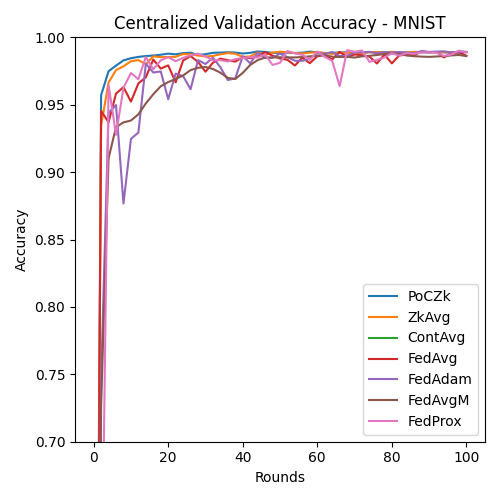
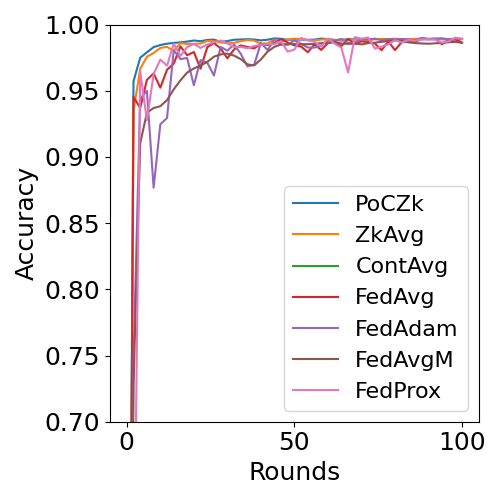
more visible plots

diff --git a/clientcontributionfl/utils/train_utils.py b/clientcontributionfl/utils/train_utils.py
@@ -96,24 +96,26 @@ def plot_comparison_from_files(save_plot_path: Path, config: dict[str, any], str
         ax1.plot(rounds_acc, values_acc, label=strategy)
         #ax2.plot(rounds_loss, values_loss, label=strategy)
 
-    ax1.set_title(f"Centralized Validation Accuracy - {dataset}")
+    #ax1.set_title(f"Centralized Validation Accuracy - {dataset}")
     ax1.set_xlabel("Rounds")
     ax1.set_ylabel("Accuracy")
-    ax1.legend(loc="lower right")
+
+    if dataset == "CIFAR10":
+        ax1.legend(fontsize=16,loc="upper right")    
+    else:
+        ax1.legend(fontsize=16,loc="lower right")
     
 
     ax1.set_ylim([0.1, 1])
-    #ax2.set_ylim([0, 9])
-
+    
     if dataset == "MNIST" and "honest" in str(result_path):
         ax1.set_ylim([0.7, 1])
-     #   ax2.set_ylim([0, 4])
-
-    # ax2.set_title(f"Centralized Training Loss - {dataset}")
-    # ax2.set_xlabel("Rounds")
-    # ax2.set_ylabel("Loss")
-    # ax2.legend(loc="upper right")
-    
+        
+    ax1.tick_params(axis='x', labelsize=18)  
+    ax1.tick_params(axis='y', labelsize=18)  
+    ax1.set_xlabel(ax1.get_xlabel(), fontsize=18)  
+    ax1.set_ylabel(ax1.get_ylabel(), fontsize=18)  
+        
     
     plt.tight_layout()
     
@@ -168,6 +170,40 @@ def save_target_accuracy_to_csv(save_csv_path: Path, config: dict[str, any], str
     print(f"Target accuracy data saved to {csv_file_path}")
     return result_path
 
+
+def save_max_accuracy_to_csv(save_csv_path: Path, config: dict[str, any], strategies: List[str]):
+    """
+    Save the maximum accuracy reached and the round where it was achieved for each strategy to a CSV file.
+    """
+    dataset = config["dataset_name"]
+    file_suffix = generate_file_suffix(config)
+    result_path = save_csv_path / Path(file_suffix.lstrip('_'))
+    csv_file_path = result_path / "max_accuracy.csv"
+
+    # Ensure the directory for the CSV file exists
+    if not result_path.exists():
+        result_path.mkdir(parents=True, exist_ok=True)
+
+    with open(csv_file_path, mode="w", newline="") as csvfile:
+        writer = csv.writer(csvfile)
+        # Write the header
+        writer.writerow(["Algorithm", f"Max Accuracy ({dataset})", "Rounds to Max Accuracy"])
+
+        for strategy in strategies:
+            file_path = result_path / f"history_S={strategy}.npy"
+            history = np.load(file_path, allow_pickle=True).item()
+            rounds_acc, values_acc = zip(*history.metrics_centralized["accuracy"])
+
+            # Find the maximum accuracy and its corresponding round
+            max_accuracy = max(values_acc)
+            max_accuracy_round = rounds_acc[values_acc.index(max_accuracy)]
+
+            # Write the data to the CSV
+            writer.writerow([strategy, max_accuracy, max_accuracy_round])
+
+    print(f"Maximum accuracy data saved to {csv_file_path}")
+    return result_path
+
 def plot_accuracy_for_different_x(save_plot_path: Path, filename: str):
     """
     Plots accuracy from specified paths for different values of X.
@@ -178,7 +214,7 @@ def plot_accuracy_for_different_x(save_plot_path: Path, filename: str):
     """
     x_values = [0.1, 0.3, 0.5]
     iid_ratio = [0.3, 0.5, 0.7]
-    plt.figure(figsize=(8, 10))
+    plt.figure(figsize=(8, 6))
     
     
     for x, iid_ratio in zip(x_values, iid_ratio):
@@ -194,13 +230,20 @@ def plot_accuracy_for_different_x(save_plot_path: Path, filename: str):
         # Plot the accuracy
         plt.plot(np.asarray(rounds_acc), values_acc, label=f"iid_ratio={iid_ratio}")
 
-    plt.title("PoC centralized accuracy - FMNIST")
-    plt.xlabel("Rounds")
-    plt.ylabel("Accuracy")
-    plt.legend(loc="lower right")
+    
+    plt.xlabel("Rounds", fontsize=18)
+    plt.ylabel("Accuracy", fontsize=18)
+    plt.legend(loc="upper right", fontsize=18)
     plt.ylim([0.1, 1])
     plt.tight_layout()
+
     
+        
+    plt.tick_params(axis='x', labelsize=18)  
+    plt.tick_params(axis='y', labelsize=18)  
+    # plt.set_xlabel(plt.get_xlabel(), fontsize=18)  
+    # plt.set_ylabel(plt.get_ylabel(), fontsize=18)  
+
     plt.savefig(save_plot_path / "accuracy_comparison.png")
     plt.close()
 

diff --git a/main.py b/main.py
@@ -1,6 +1,6 @@
 import subprocess
 import argparse
-from clientcontributionfl.utils import cleanup_proofs, plot_comparison_from_files, check_arguments, save_target_accuracy_to_csv
+from clientcontributionfl.utils import cleanup_proofs, plot_comparison_from_files, check_arguments, save_target_accuracy_to_csv, plot_accuracy_for_different_x, save_max_accuracy_to_csv
 from flwr.common.config import get_project_config
 from pathlib import Path
 
@@ -63,9 +63,9 @@ def add_parser_arguments(parser : argparse.ArgumentParser):
 def run_simulations(args):
     """Run simulation for each strategy."""
     strategies = args.strategies
-    for strategy in strategies:
-        cleanup_proofs()
-        run_simulation(args, strategy)
+    # for strategy in strategies:
+    #     cleanup_proofs()
+    #     run_simulation(args, strategy)
 
 def run_simulation(args, strategy):
 
@@ -139,11 +139,18 @@ def save_training_rounds(strategies, config):
     dishonest = "dishonest" if config["dishonest"] else "honest"
     results_path = Path(config["save_path"]) / Path("simulation") / Path(dataset) / Path(dishonest) 
 
-    training_rounds_paths = save_target_accuracy_to_csv(
+    # training_rounds_paths = save_target_accuracy_to_csv(
+    #     save_csv_path=results_path,
+    #     config=config,
+    #     strategies=strategies
+    # )
+
+    training_rounds_paths = save_max_accuracy_to_csv(
         save_csv_path=results_path,
         config=config,
         strategies=strategies
     )
+
     return training_rounds_paths
     
 

diff --git a/clientcontributionfl/utils/__init__.py b/clientcontributionfl/utils/__init__.py
@@ -1,3 +1,3 @@
 from .score import compute_score
 from .file_utils import cleanup_proofs, extract_score_from_proof, forge_score_in_proof, check_arguments, generate_file_suffix, read_file_as_bytes, write_bytes_to_file, load_proof_data
-from .train_utils import plot_comparison_from_files, aggregate, SelectionPhase, string_to_enum, get_model_class, plot_accuracy_for_different_x, plot_label_partitioning, write_zok_file, generate_zok_merkle_tree_template, generate_zok_client_score_template, measure_cpu_and_time, aggregate_between_clusters, ClientData, store_deployment_metrics, store_contract_function_metrics, save_target_accuracy_to_csv
+from .train_utils import plot_comparison_from_files, aggregate, SelectionPhase, string_to_enum, get_model_class, plot_accuracy_for_different_x, plot_label_partitioning, write_zok_file, generate_zok_merkle_tree_template, generate_zok_client_score_template, measure_cpu_and_time, aggregate_between_clusters, ClientData, store_deployment_metrics, store_contract_function_metrics, save_target_accuracy_to_csv, save_max_accuracy_to_csv
